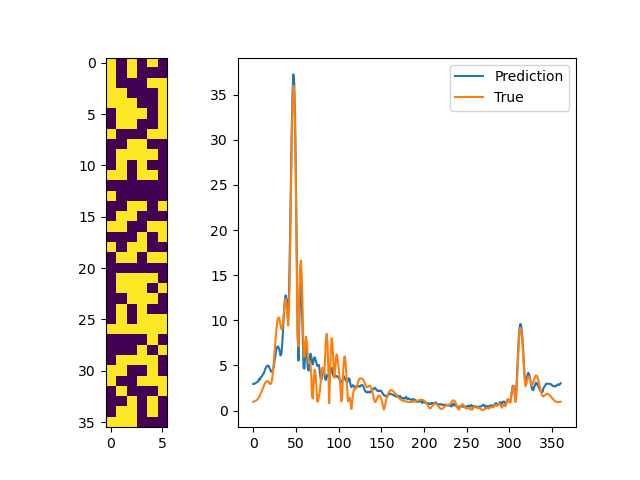
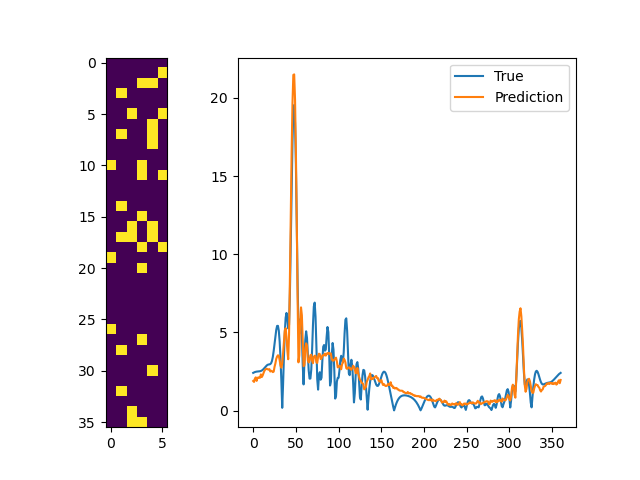
base

diff --git a/lwa_angle_model.py b/lwa_angle_model.py
@@ -9,15 +9,15 @@ class LWAPredictionModel(tf.keras.Model):
     def __init__(self):
         super(LWAPredictionModel, self).__init__()
 
-        self.adam_optimizer = tf.keras.optimizers.Adam(learning_rate=0.004)
+        self.adam_optimizer = tf.keras.optimizers.Adam(learning_rate=0.007)
         self.batch_size = 32
-        self.epochs = 25
+        self.epochs = 10
 
         self.conv_layers = tf.keras.Sequential()
         self.conv_layers.add(Conv2D(128, 2, 1, 'same',activation='relu'))
         self.conv_layers.add(MaxPooling2D((6,1)))
         self.conv_layers.add(Flatten())
-
+        #
         self.dense_layers = tf.keras.Sequential()
         self.dense_layers.add(Dense(4608, activation = 'relu'))
         self.dense_layers.add(Dense(4608 / 2, activation = 'relu'))
@@ -25,9 +25,18 @@ class LWAPredictionModel(tf.keras.Model):
         self.dense_layers.add(Dense(4608 / 8, activation = 'relu'))
         self.dense_layers.add(Dense(361))
 
+        # self.dense_only = tf.keras.Sequential()
+        # self.dense_only.add(Flatten(input_shape = [36, 6, 1]))
+        # self.dense_only.add(Dense(216, activation = 'relu'))
+        # self.dense_only.add(Dense(432, activation = 'relu'))
+        # self.dense_only.add(Dense(864, activation = 'relu'))
+        # self.dense_only.add(Dense(1728, activation = 'relu'))
+        # self.dense_only.add(Dense(361))
+
     def call(self, input):
         post_conv = self.conv_layers(input)
         post_dense = self.dense_layers(post_conv)
+        # post_dense = self.dense_only(input)
 
         return post_dense
 

diff --git a/build_model.py b/build_model.py
@@ -37,7 +37,7 @@ def train(model, slots, results):
 
         loss_list.append(efarx_loss)
 
-        print('Efarx training loss: ', tf.reduce_mean(loss_list))
+    print('Efarx training loss: ', tf.reduce_mean(loss_list))
 
 def test(model, slots, results):
     completed = 0
@@ -83,9 +83,9 @@ def main():
     fig = plt.figure()
     ax = fig.subplots(1,2, gridspec_kw={'width_ratios': [1, 3]})
     ax[0].imshow(slot_test[random])
-    ax[1].plot(efarx)
     ax[1].plot(truefarx)
-    ax[1].legend(['Prediction','True'])
+    ax[1].plot(efarx)
+    ax[1].legend(['True','Prediction'])
     save_str = 'results/test.png'
     fig.savefig(save_str)
 
